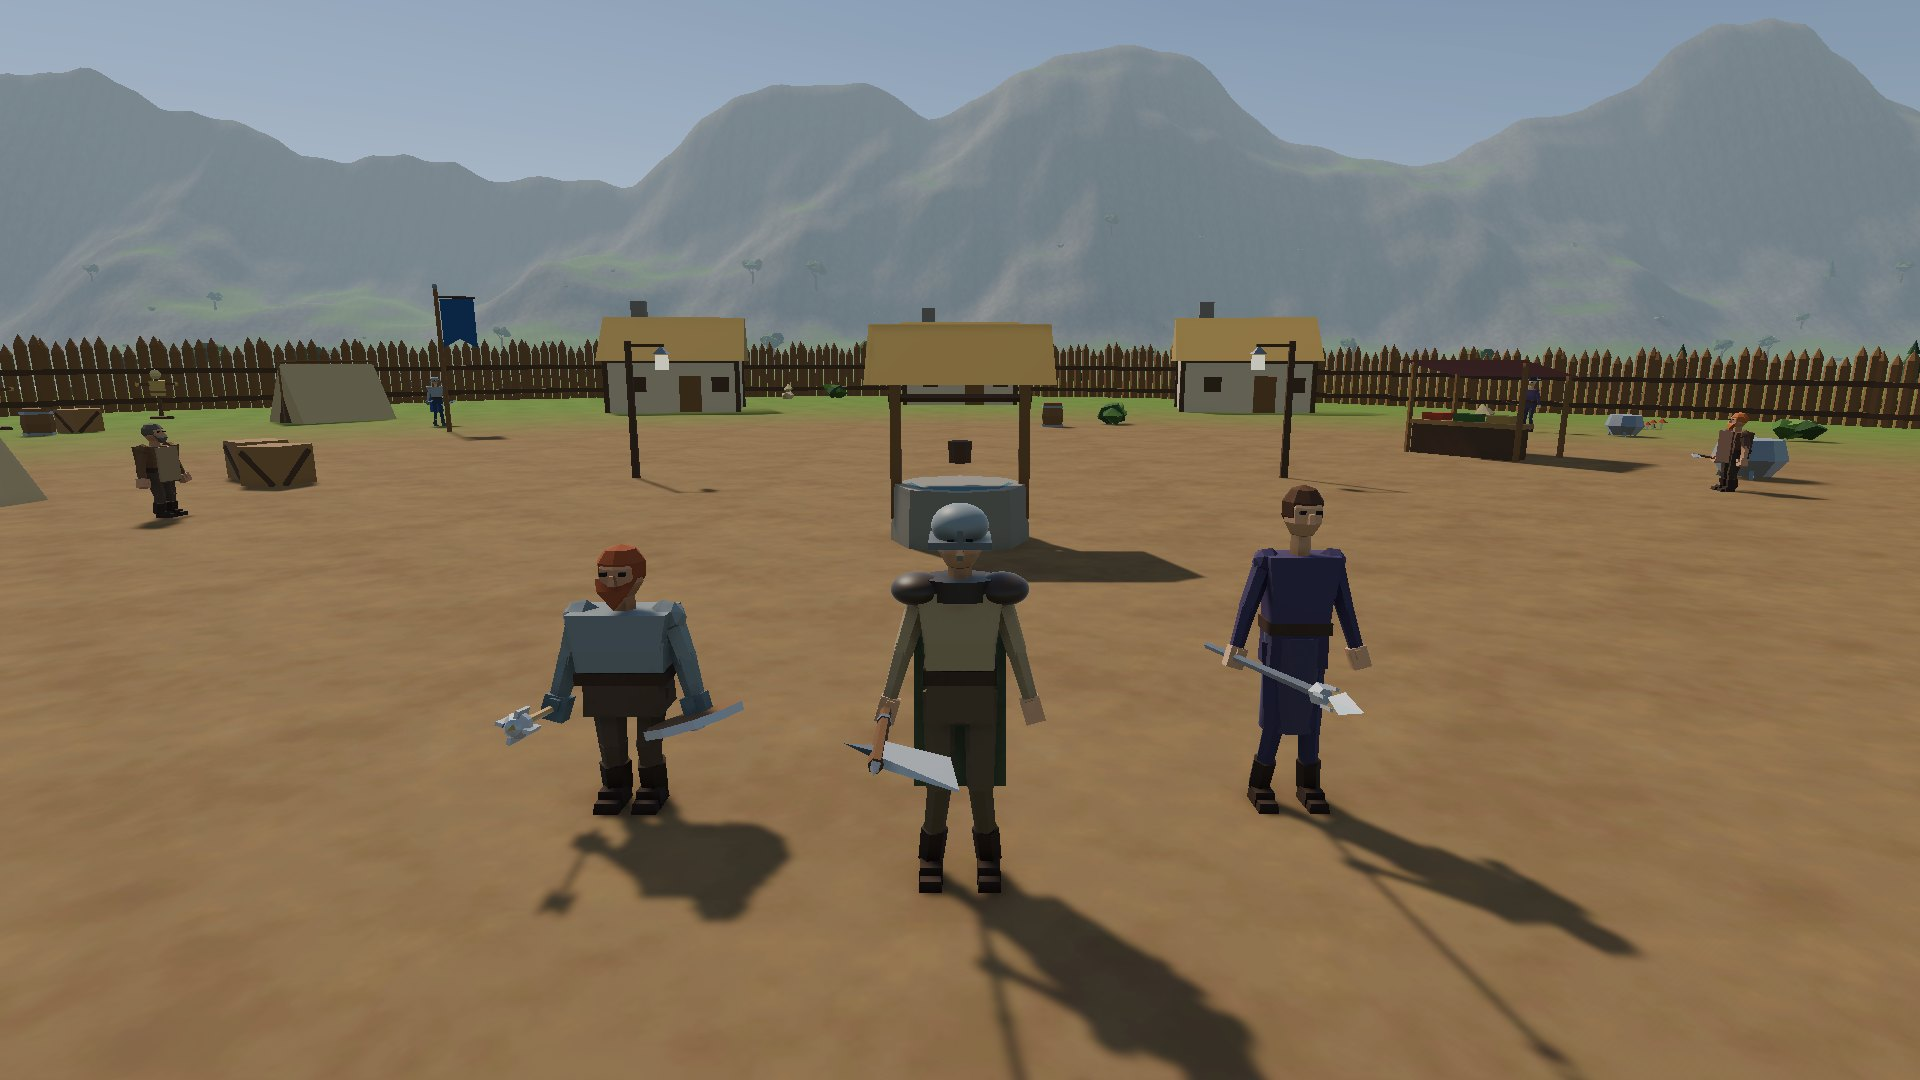
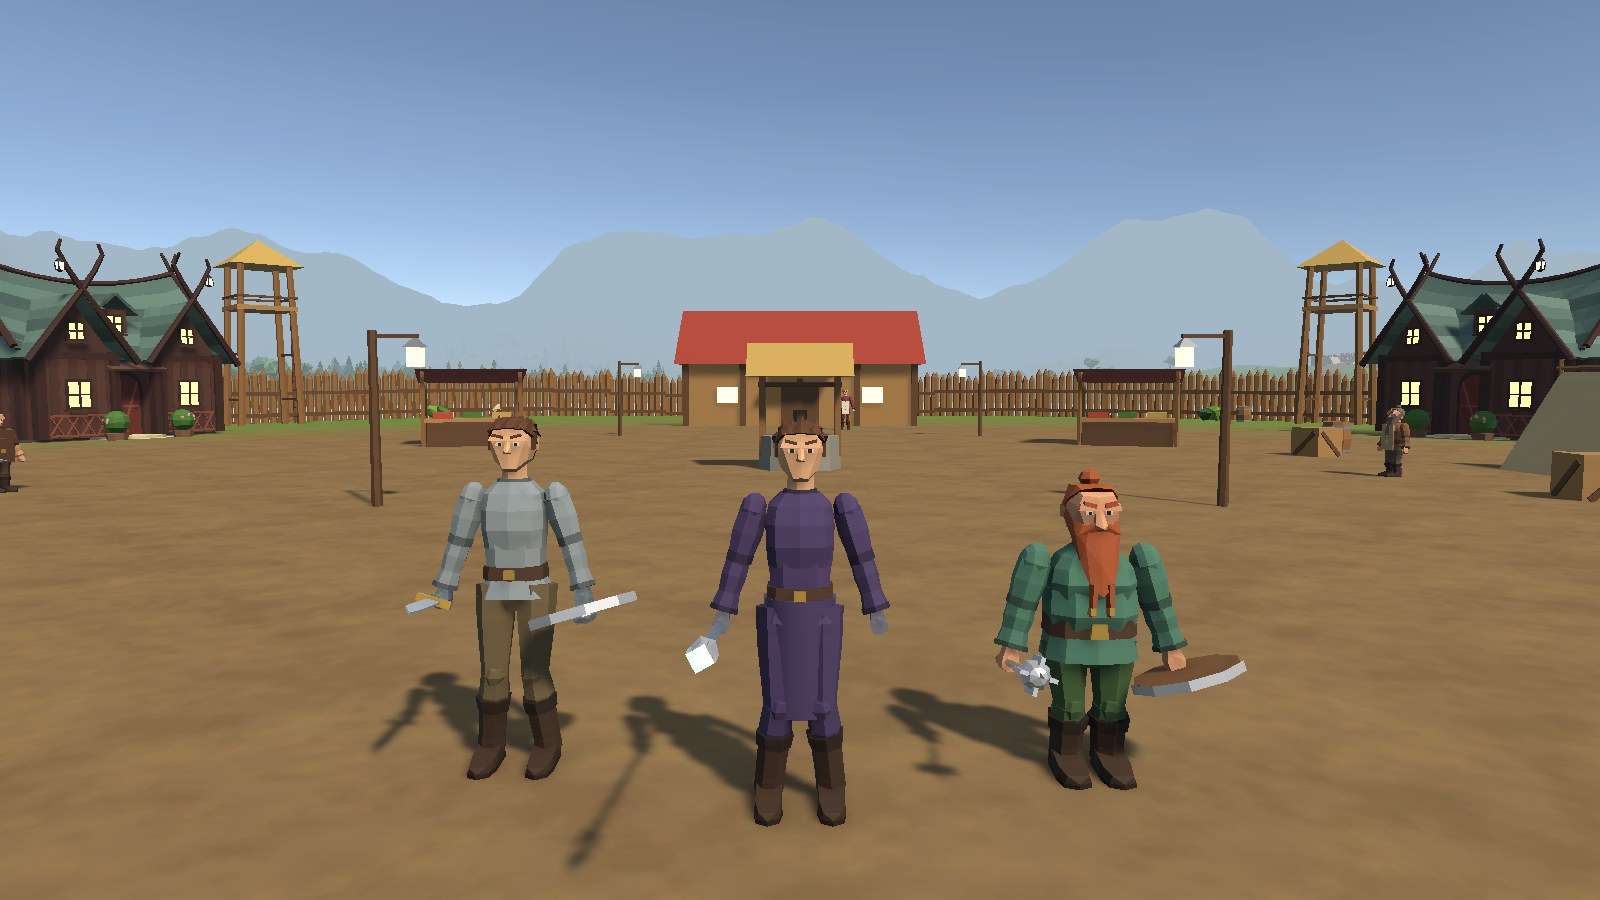
README: the remodeled characters, turn-in marks, quest levels, two action bars
A new title picture with the remodeled characters on the square of
Mirewatch, and four new Phase 5 pictures: the characters before and after,
the world map's quest levels and turn-in mark, the two action bars with
potions and an elixir, and the turn-in mark on the minimap's rim. The
Phase 5 table, the controls and the dev log describe the new features.

diff --git a/README.md b/README.md
@@ -9,11 +9,11 @@
 [![CI](https://github.com/Mad-Mange/Madlands/actions/workflows/ci.yml/badge.svg)](https://github.com/Mad-Mange/Madlands/actions/workflows/ci.yml)
 ![Unity](https://img.shields.io/badge/Unity-6-000000?logo=unity)
 ![.NET](https://img.shields.io/badge/.NET-10-512BD4?logo=dotnet)
-![Tests](https://img.shields.io/badge/tests-153%20passing-brightgreen)
+![Tests](https://img.shields.io/badge/tests-154%20passing-brightgreen)
 
-<img src="docs/images/phase5-hero.jpg" alt="A Korrin warden in a steel breastplate, a human warrior with helm, mantle and cloak, and a human mage in a violet robe on the square of Mirewatch" width="100%">
+<img src="docs/images/phase5-hero.jpg" alt="A human warrior in a steel breastplate, a human shardmage in a violet robe and a red-bearded Korrin warden with mace and shield on the square of Mirewatch, timber houses, the inn and watchtowers behind them" width="100%">
 
-<sub><i>Phase 5: adventurers on the square of Mirewatch, the village of Hollowmere. A Korrin warden and two humans, their armor visible on them; the models, animations and the village itself are made by scripts in Blender and Unity.</i></sub>
+<sub><i>Phase 5: adventurers on the square of Mirewatch, the village of Hollowmere: a human warrior in a steel breastplate, a shardmage in a violet robe and a Korrin warden with his braided beard. The models, animations and the village itself are made by scripts in Blender and Unity.</i></sub>
 
 </div>
 
@@ -58,12 +58,12 @@ Everything for the first real zone is in; what is left is putting a realm online
 |---|---|
 | Hollowmere | A 1 km valley around a shallow mere, generated by code: the village of Mirewatch, Westbrook's farms, the Reedfen marsh, the Greywood, the Shardscar quarry and the Drowned Ruins ([zone guide](docs/zones/hollowmere.md)) |
 | Content | 30 quests in six chains, 15 creature types, 10 NPCs and two bosses: Gloomjaw in its lagoon, and Ruukhar the Slagborn in the Cinder Cut with a slam to run from, a stacking burn and an enrage. Glowcap mushrooms to gather in the Greywood; area names on the minimap |
-| Art | Low-poly models made by Python scripts in Blender: two races, creatures and bosses, weapons and 40 props, from palisades to Mirewatch's timber grove houses ([ADR 0012](docs/adr/0012-art-pipeline-blender.md)) |
+| Art | Low-poly models made by Python scripts in Blender: two races, creatures and bosses, weapons and 40 props, from palisades to Mirewatch's timber grove houses ([ADR 0012](docs/adr/0012-art-pipeline-blender.md)). The races are stylized after classic fantasy MMOs: heroic proportions, faces with brows and eyes, swept hair, the Korrin's braided beard, cuffed boots; collars and cuffs follow the gear colors, and hair hides under helmets |
 | Animation | 16 humanoid clips made once and retargeted to every race; creatures have their own. Worn gear shows on characters |
 | Sound | Synthesized music and ambience per area, footsteps that splash in the water, swings, hits, spells by school, jingles; effects from Kenney's CC0 packs ([credits](CREDITS.md)) |
-| Getting around | Sprint on stamina (Shift); the world map and minimap circle where each quest objective is done, worked out from where the creatures live; lootable corpses shimmer; symbols over vendors and the innkeeper; bigger click targets and clickable nameplates |
+| Getting around | Sprint on stamina (Shift); the world map and minimap circle where each quest objective is done, worked out from where the creatures live (labeled with the quest's level, colored by how hard it is for you), and a gold "?" shows where to turn in a finished quest (on the minimap's rim when it is far away); lootable corpses shimmer; symbols over vendors and the innkeeper; bigger click targets and clickable nameplates |
 | Rested experience | Rest in Mirewatch or log out there and kills give double experience for a while, as in WoW: a darker stretch on the blue experience bar shows how much is left |
-| Interface | An action bar you arrange yourself (Shift-drag) and a spellbook (P); gear tooltips compare with what you wear; 30-minute buffs and elixirs that last through logging out; levels on the character select screen |
+| Interface | Two action bars you arrange yourself (Shift-drag), with potions, food and elixirs on them too, and a spellbook (P); gear tooltips compare with what you wear; 30-minute buffs and elixirs that last through logging out; levels on the character select screen |
 | Settings | Rebindable keys, mouse, graphics, window mode and resolution, interface scale, volumes; every interface text in a string table ([ADR 0013](docs/adr/0013-localization.md)) |
 | Online | A deployment guide for a VPS behind Caddy (TLS) ([deployment.md](docs/deployment.md)) |
 
@@ -107,6 +107,22 @@ Everything for the first real zone is in; what is left is putting a realm online
   <tr>
     <td><sub><b>Glowcaps.</b> Mushrooms at the feet of the Greywood's trees shine while Old Tamsin's quest needs them; right-click to pick them. They grow back.</sub></td>
     <td><sub><b>Spellbook and tooltips.</b> Drag spells onto the action bar from the spellbook (P). A gear tooltip shows what equipping it changes; long buffs last 30 minutes.</sub></td>
+  </tr>
+  <tr>
+    <td><img src="docs/images/phase5-characters.jpg" alt="The human and the Korrin before and after: blocky figures with box heads on the left, stylized characters with faces, swept hair, a braided beard and cuffed boots on the right"></td>
+    <td><img src="docs/images/phase5-questlevels.jpg" alt="The world map with yellow circles labeled with quest levels in colors from gray to red, and a gold question mark where a finished quest is turned in"></td>
+  </tr>
+  <tr>
+    <td><sub><b>Remodeled characters.</b> Before (left) and after, made by the same Blender scripts: heroic proportions, faces with brows and eyes, swept hair, the Korrin's braided beard and topknot, belts with buckles and cuffed boots.</sub></td>
+    <td><sub><b>Quest levels on the map.</b> Every circle's label starts with the quest's level, colored by how hard it is for you (gray, green, yellow, orange, red). A gold "?" marks where a finished quest is turned in.</sub></td>
+  </tr>
+  <tr>
+    <td><img src="docs/images/phase5-actionbars.jpg" alt="Two rows of action buttons holding spells, potions, food, a tonic and an elixir with counts, the healing draught counting down, the bags open beside them"></td>
+    <td><img src="docs/images/phase5-turnin.jpg" alt="Two minimaps: far away a gold question mark sits on the rim pointing toward Mirewatch; close by it marks Old Tamsin; the tracker says Ready to turn in: Old Tamsin"></td>
+  </tr>
+  <tr>
+    <td><sub><b>Two action bars.</b> Potions, food, tonics and elixirs go on them from the bags: each button shows how many are left and its cooldown (the healing draught), and the elixir's buff lasts 30 minutes.</sub></td>
+    <td><sub><b>Turn in, from anywhere.</b> Far away, the gold "?" waits on the minimap's rim, pointing toward the quest's ender (left); close by, it marks the NPC (right).</sub></td>
   </tr>
 </table>
 
@@ -220,6 +236,7 @@ The **core loop** is in: take a quest, go out and fight, loot, get better gear, 
     <td valign="top">
       <b>Dev log</b>
       <ul>
+        <li><sub><b>2026-10-20 – Characters and maps.</b> Both races remodeled in Blender after classic fantasy MMOs; finished quests show where to turn them in, from anywhere on the maps; quest levels on the world map; two action bars that hold potions and elixirs too.</sub></li>
         <li><sub><b>2026-10-19 – Phase 5: Hollowmere.</b> The first real zone, generated by code, with low-poly art from Blender scripts, synthesized music, 30 quests and two bosses. Then the polish: sprint, rested experience, quest areas on the maps, NPC symbols, item comparison, a spellbook and an action bar you arrange.</sub></li>
         <li><sub><b>2026-10-18 – Phase 4 done.</b> Items, inventory, loot, vendors and money; data-driven quests with NPC dialogs, a quest log and a tracker; the Mirewatch Post with eight quests. Bots loot too.</sub></li>
         <li><sub><b>2026-10-16 – Phase 3 done.</b> Combat: three classes, spells and auras as data, creature AI with navmesh pathfinding, experience and levels, a full HUD. Bots fight too.</sub></li>
@@ -338,7 +355,7 @@ Run the tests with `dotnet test Madlands.slnx` (PostgreSQL tests are skipped if 
 | Click an item | Pick it up; click a slot to put it down (or drag). Drop it outside the windows to destroy it |
 | Right click an item | Use, equip or unequip it; sell it while a vendor is open |
 | Tab | Cycle through enemies in front of you |
-| 1–0, -, = | Action bar (hover a button for its tooltip). Shift-drag a button onto another slot to swap them, or off the bar to take it off |
+| 1–0, -, = | Action bar (hover a button for its tooltip). Shift-drag a button onto another slot to swap them, or off the bar to take it off. Drag potions, food and elixirs onto it from the bags. The second row above it gets its keys in Settings |
 | P | Spellbook: drag spells onto the action bar |
 | Right click a buff | Cancel it |
 | Enter | Chat. Lines starting with `.` are GM commands; `.help` lists them |
